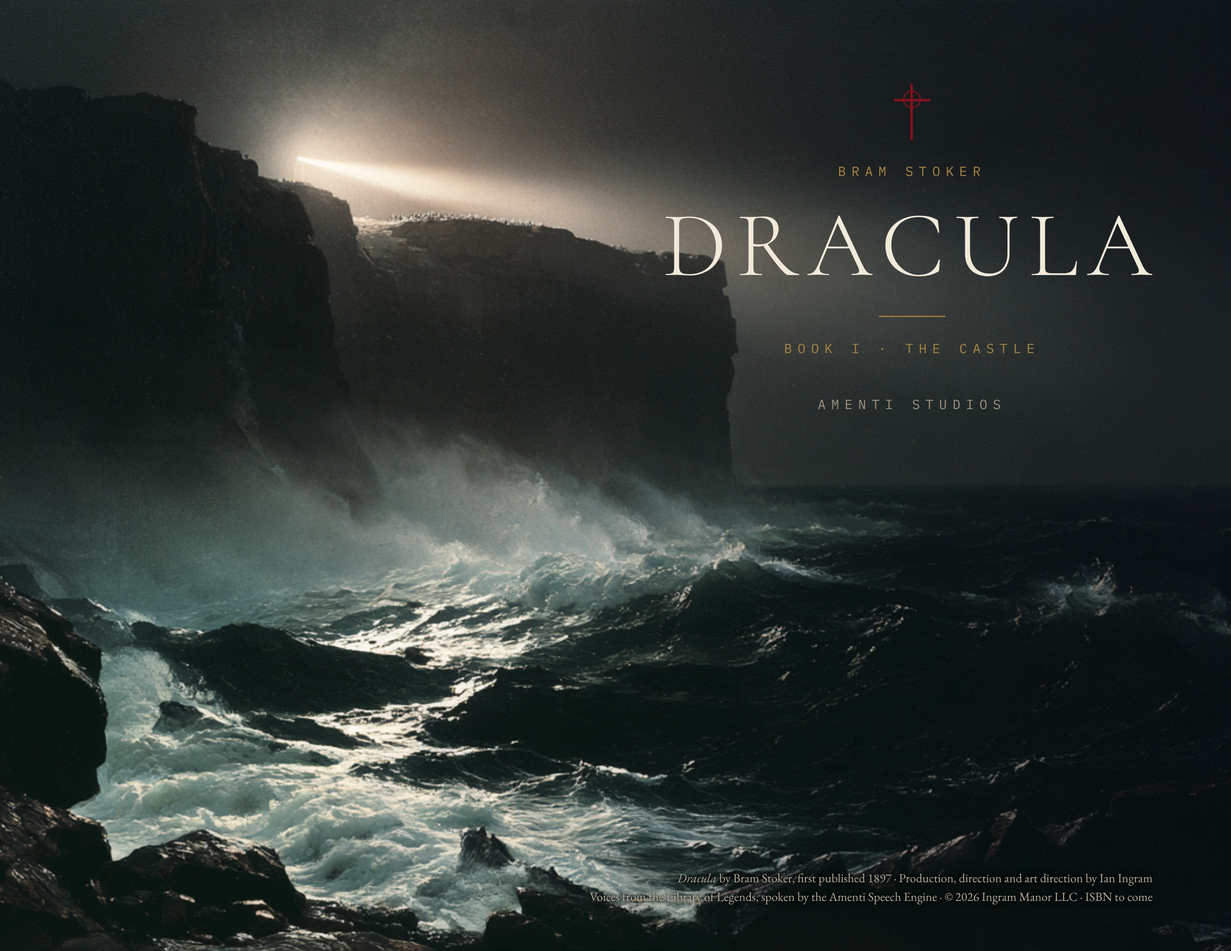
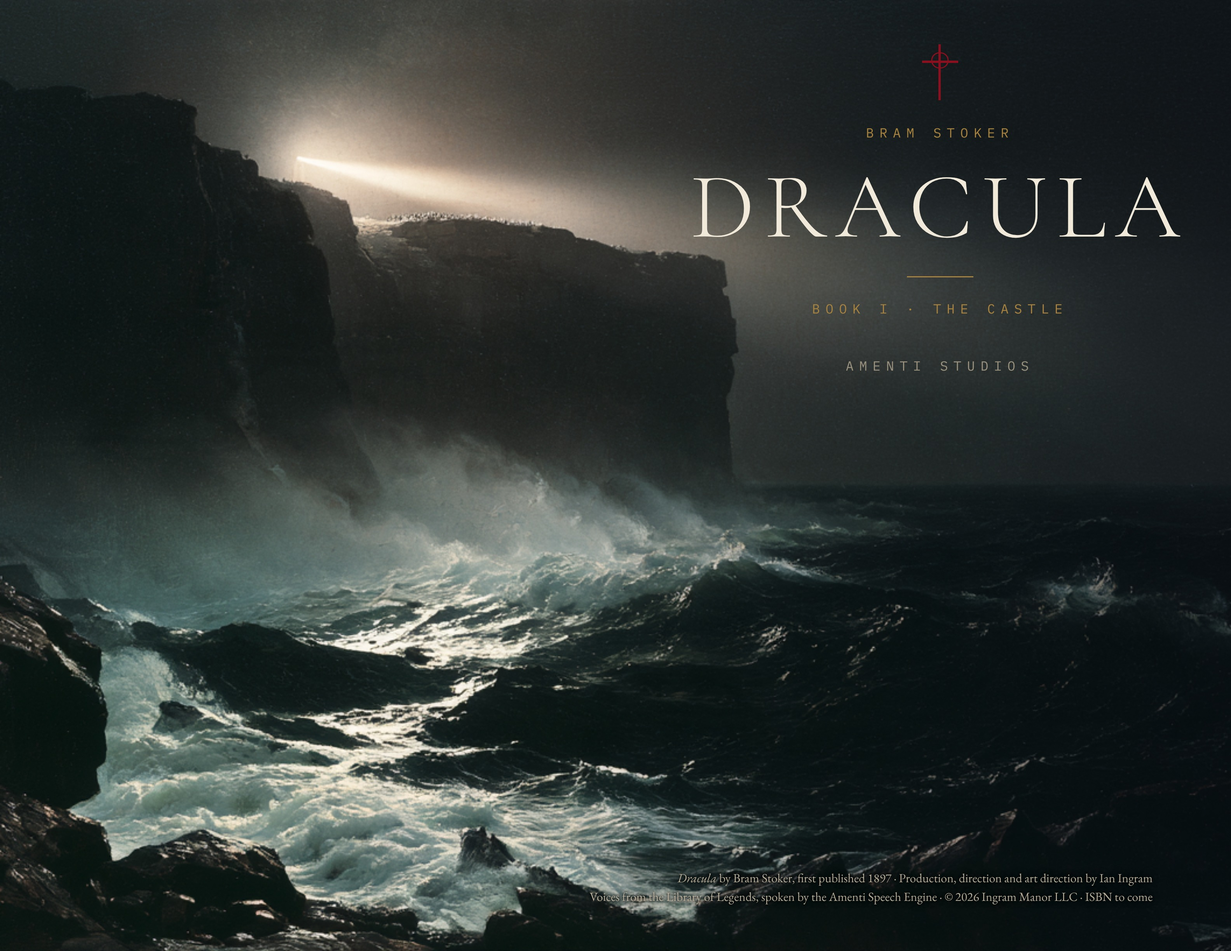
Book I print: title copy further up and right
Claude-Session: https://claude.ai/code/session_013VwDP7mPLrP4eYudhxc4u4

diff --git a/dracula/books/book-1/print/title.html b/dracula/books/book-1/print/title.html
@@ -42,4 +42,4 @@ html,body{margin:0;background:#555}
 .dc{float:left;font:300 52pt/0.8 C;margin:.06in .08in 0 0;color:var(--red)}
 .qr{position:absolute;right:.75in;top:.8in;width:1.05in;text-align:center;font:7pt M;letter-spacing:.2em;color:var(--gold);text-transform:uppercase}
 .qr img{width:1.05in;height:1.05in;display:block;margin-bottom:.05in}
-</style></head><body style="margin:0;background:#000"><div class="pg night R" style="margin:0"><div class="bleed" style="background-image:url(title-sea.png)"></div><div style="position:absolute;inset:0;background:linear-gradient(90deg,rgba(0,0,0,0) 45%,rgba(8,10,16,.55) 100%)"></div><div style="position:absolute;right:.4in;top:.75in;width:4.9in;text-align:center;color:#efe7d8"><div class="cross"><i></i></div><div class="k">Bram Stoker</div><div class="big" style="color:#f1e9da;font-size:60pt;letter-spacing:.1em">DRACULA</div><div class="rule"></div><div class="k">Book I · The Castle</div><div style="height:.35in"></div><div class="k" style="color:#9a927f">Amenti Studios</div></div><div style="position:absolute;right:.7in;bottom:.4in;width:5.2in;text-align:right;font:8pt/1.55 G;color:#b3ab98;text-shadow:0 0 6px #000,0 0 2px #000"><i>Dracula</i> by Bram Stoker, first published 1897 · Production, direction and art direction by Ian Ingram<br>Voices from the Library of Legends, spoken by the Amenti Speech Engine · © 2026 Ingram Manor LLC · ISBN to come</div></div><script>document.fonts.ready.then(()=>document.title='done')</script></body></html>
+</style></head><body style="margin:0;background:#000"><div class="pg night R" style="margin:0"><div class="bleed" style="background-image:url(title-sea.png)"></div><div style="position:absolute;inset:0;background:linear-gradient(90deg,rgba(0,0,0,0) 45%,rgba(8,10,16,.55) 100%)"></div><div style="position:absolute;right:.15in;top:.4in;width:4.9in;text-align:center;color:#efe7d8"><div class="cross"><i></i></div><div class="k">Bram Stoker</div><div class="big" style="color:#f1e9da;font-size:60pt;letter-spacing:.1em">DRACULA</div><div class="rule"></div><div class="k">Book I · The Castle</div><div style="height:.35in"></div><div class="k" style="color:#9a927f">Amenti Studios</div></div><div style="position:absolute;right:.7in;bottom:.4in;width:5.2in;text-align:right;font:8pt/1.55 G;color:#b3ab98;text-shadow:0 0 6px #000,0 0 2px #000"><i>Dracula</i> by Bram Stoker, first published 1897 · Production, direction and art direction by Ian Ingram<br>Voices from the Library of Legends, spoken by the Amenti Speech Engine · © 2026 Ingram Manor LLC · ISBN to come</div></div><script>document.fonts.ready.then(()=>document.title='done')</script></body></html>
